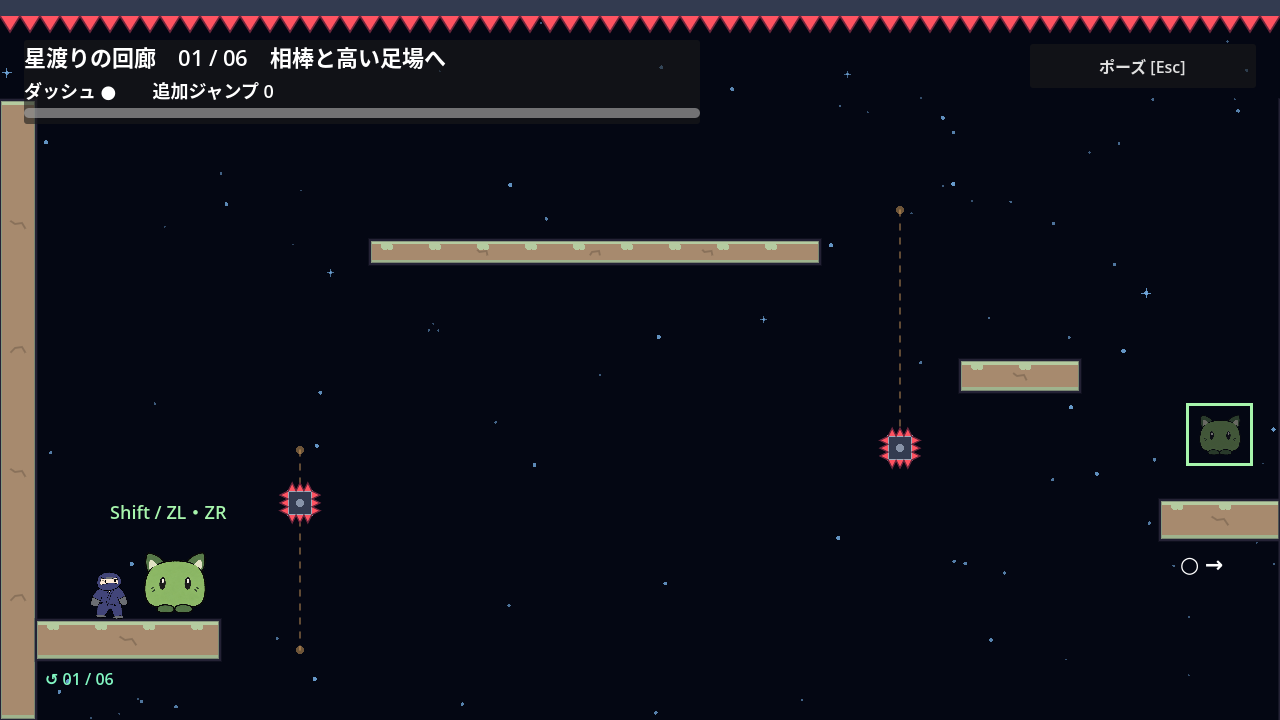
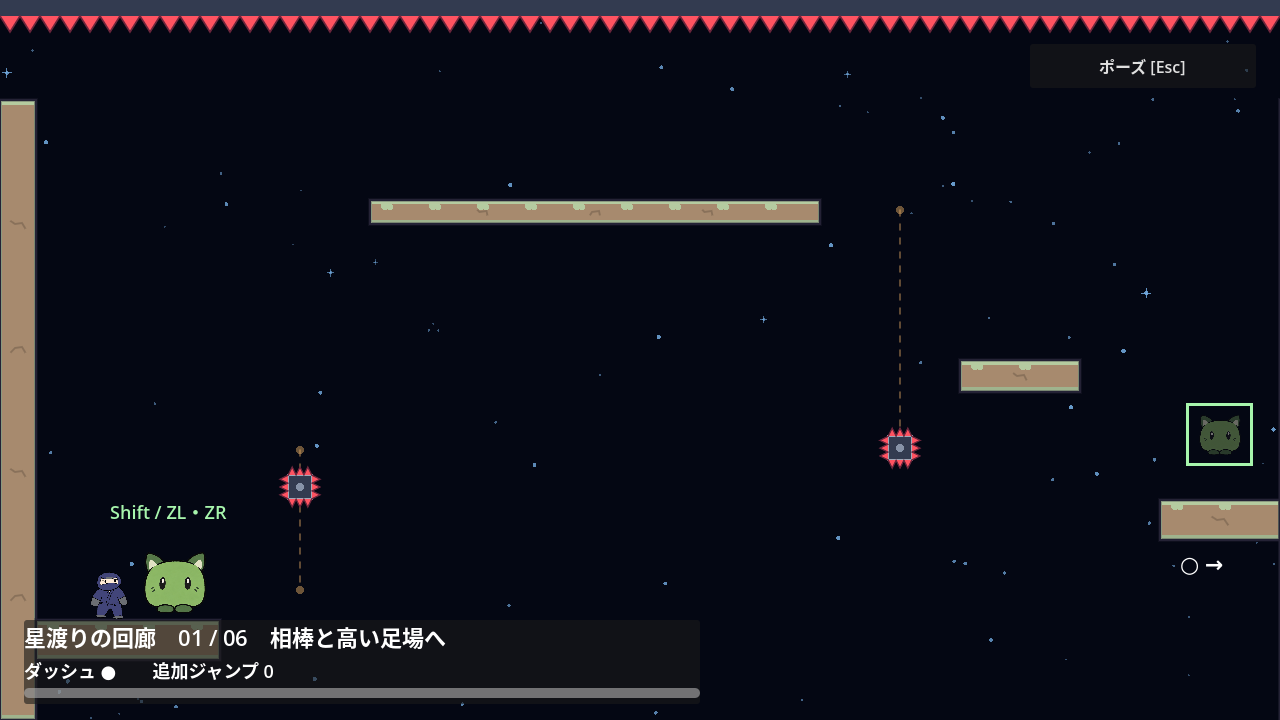
🐛 相棒を踏み台にする追加ジャンプの迂回を防止

diff --git a/docs/stage-4.md b/docs/stage-4.md
@@ -6,7 +6,7 @@
 
 | 面 | テーマ | 地形と攻略の違い |
 | --- | --- | --- |
-| 1 | 相棒と高い足場へ | 入口から380px上の幅450pxの片面足場へ、追加ジャンプとDashを組み合わせて上がる。着地して休み、先の低い足場へ下る |
+| 1 | 相棒と高い足場へ | 入口から420px上の幅450pxの片面足場へ、追加ジャンプとDashを組み合わせて上がる。着地して休み、先の低い足場へ下る |
 | 2 | 壁キックの峡谷 | 入口の縦穴を左右の壁キックで上がり、高い縦壁と低い足場を渡る |
 | 3 | 低い天井の回廊 | 屋根の下にある低い足場を進む。追加ジャンプの早出しによる頭の衝突に注意 |
 | 4 | 峠を越えて下る | 前半は高低差のある登り、後半は下りの着地位置を調整 |
@@ -31,8 +31,8 @@ Godot_v4.7.2-stable_win64_console.exe --headless --fixed-fps 60 --path . --scrip
 
 成功時は `STAGE_4_TEST_OK`。全6面を生物の保持・実入力・壁登りなしで通過し、生物の追加ジャンプを各面で使用する。第1室は追加ジャンプとDashを組み合わせ、第2〜6室はDashなしで攻略する。全出口の手ぶら通過拒否、各面の天井への上向きダッシュによる接触復帰（左・中央・右）、移動トゲ、落下、再開、クリア、メニューを確認する。`-- --screenshots`で画面を保存、`-- --search`で入口の待ち時間を探索する。
 
-`tests/corridor_companion_route_test.gd`は、第1室を異なる4つの開始時機で約5.47秒で通過し、追加ジャンプとDashを使うことを確認する。巡回トゲを停止し、相棒の追加ジャンプを利用できなくした216通りの踏み切り位置・Dash方向・時機・壁キックでも、高い足場と出口に届かないことを検証する。危険物による失敗と、足場の高さによる必須性を区別している。
+`tests/corridor_companion_route_test.gd`は、第1室を異なる4つの開始時機で約5.38秒で通過し、追加ジャンプとDashを使うことを確認する。巡回トゲを停止し、相棒の追加ジャンプを利用できなくした216通りの踏み切り位置・Dash方向・時機・壁キックでも、高い足場と出口に届かないことを検証する。相棒の上からGrabと通常ジャンプを同時に入力する踏み台経路も、追加ジャンプなしでは届かない。追加ジャンプまでとDashまでの間隔を各16/20/24フレームに変えた9組み合わせは、上段へ到達できる。危険物による失敗と、足場の高さによる必須性を区別している。
 
-画像は`docs/screenshots/celeste-corridor-room1-entry.png`と`celeste-corridor-room1-rest.png`。入口から上段と次の着地先が見え、上段の相棒がHUDに隠れないことを確認した。
+画像は`docs/screenshots/celeste-corridor-room1-entry.png`と`celeste-corridor-room1-rest.png`。入口から上段と次の着地先が見え、第1室のHUDは入口足場より下に置き、巡回トゲと上段の相棒を隠さない。次室では元の上側へ戻す。
 
 人による操作感の評価は未実施。

diff --git a/README.md b/README.md
@@ -59,7 +59,7 @@ F5で起動すると、宇宙背景の中央に「忍者ぶっとびくん Galax
 
 ## ステージ4：星渡りの回廊
 
-全6面で緑の相棒を持ったまま出口へ運ぶステージです。運搬中は壁登りができないため、壁キックと追加ジャンプを使います。第1室は入口から380px上の広い片面足場へ、相棒の追加ジャンプとダッシュを組み合わせて上がります。縦穴・低い天井・峠の下り・離れ小島・折り返しの第2〜6室は、ダッシュなしでも攻略できます。画面上端には危険が見える天井トゲを配置しています。部屋移動で復帰地点を更新し、落下・トゲへの接触・R / Startで現在の部屋から再開します。
+全6面で緑の相棒を持ったまま出口へ運ぶステージです。運搬中は壁登りができないため、壁キックと追加ジャンプを使います。第1室は入口から420px上の広い片面足場へ、相棒の追加ジャンプとダッシュを組み合わせて上がります。縦穴・低い天井・峠の下り・離れ小島・折り返しの第2〜6室は、ダッシュなしでも攻略できます。画面上端には危険が見える天井トゲを配置しています。部屋移動で復帰地点を更新し、落下・トゲへの接触・R / Startで現在の部屋から再開します。
 
 ポーズメニューで操作のヒントを表示できます。配置・操作・テストは [第4ステージの仕様](docs/stage-4.md) を参照してください。
 
